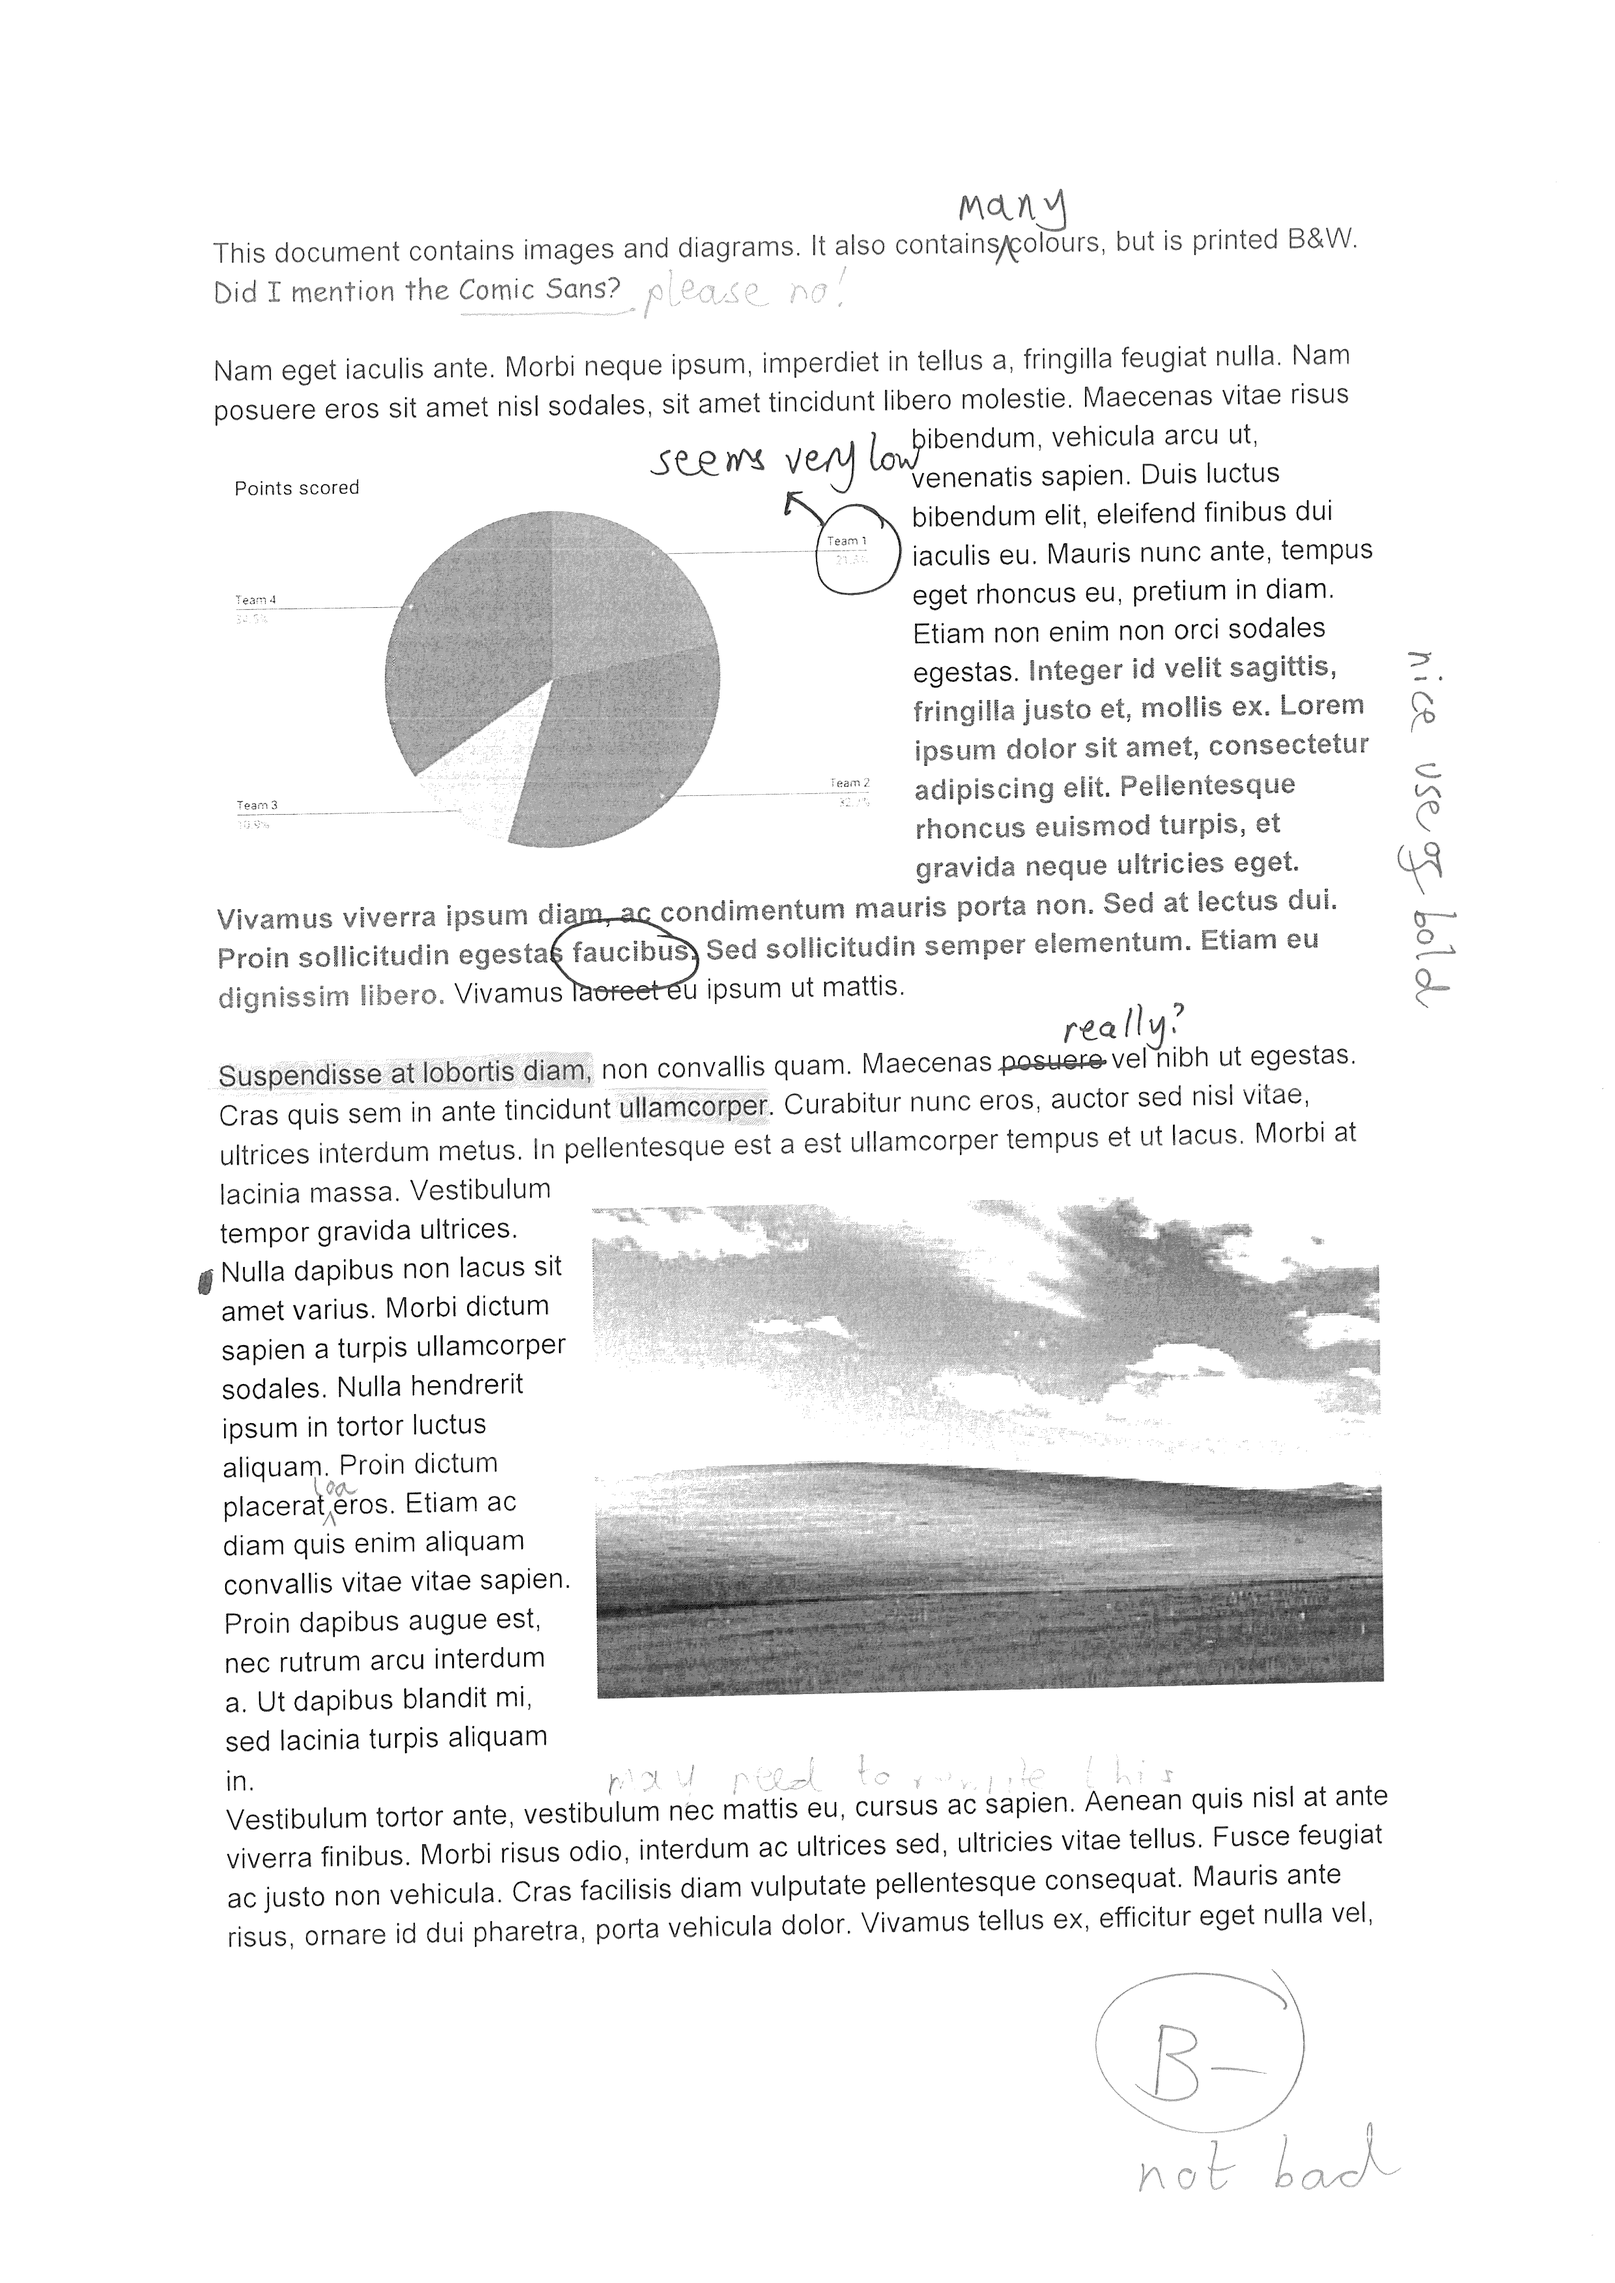
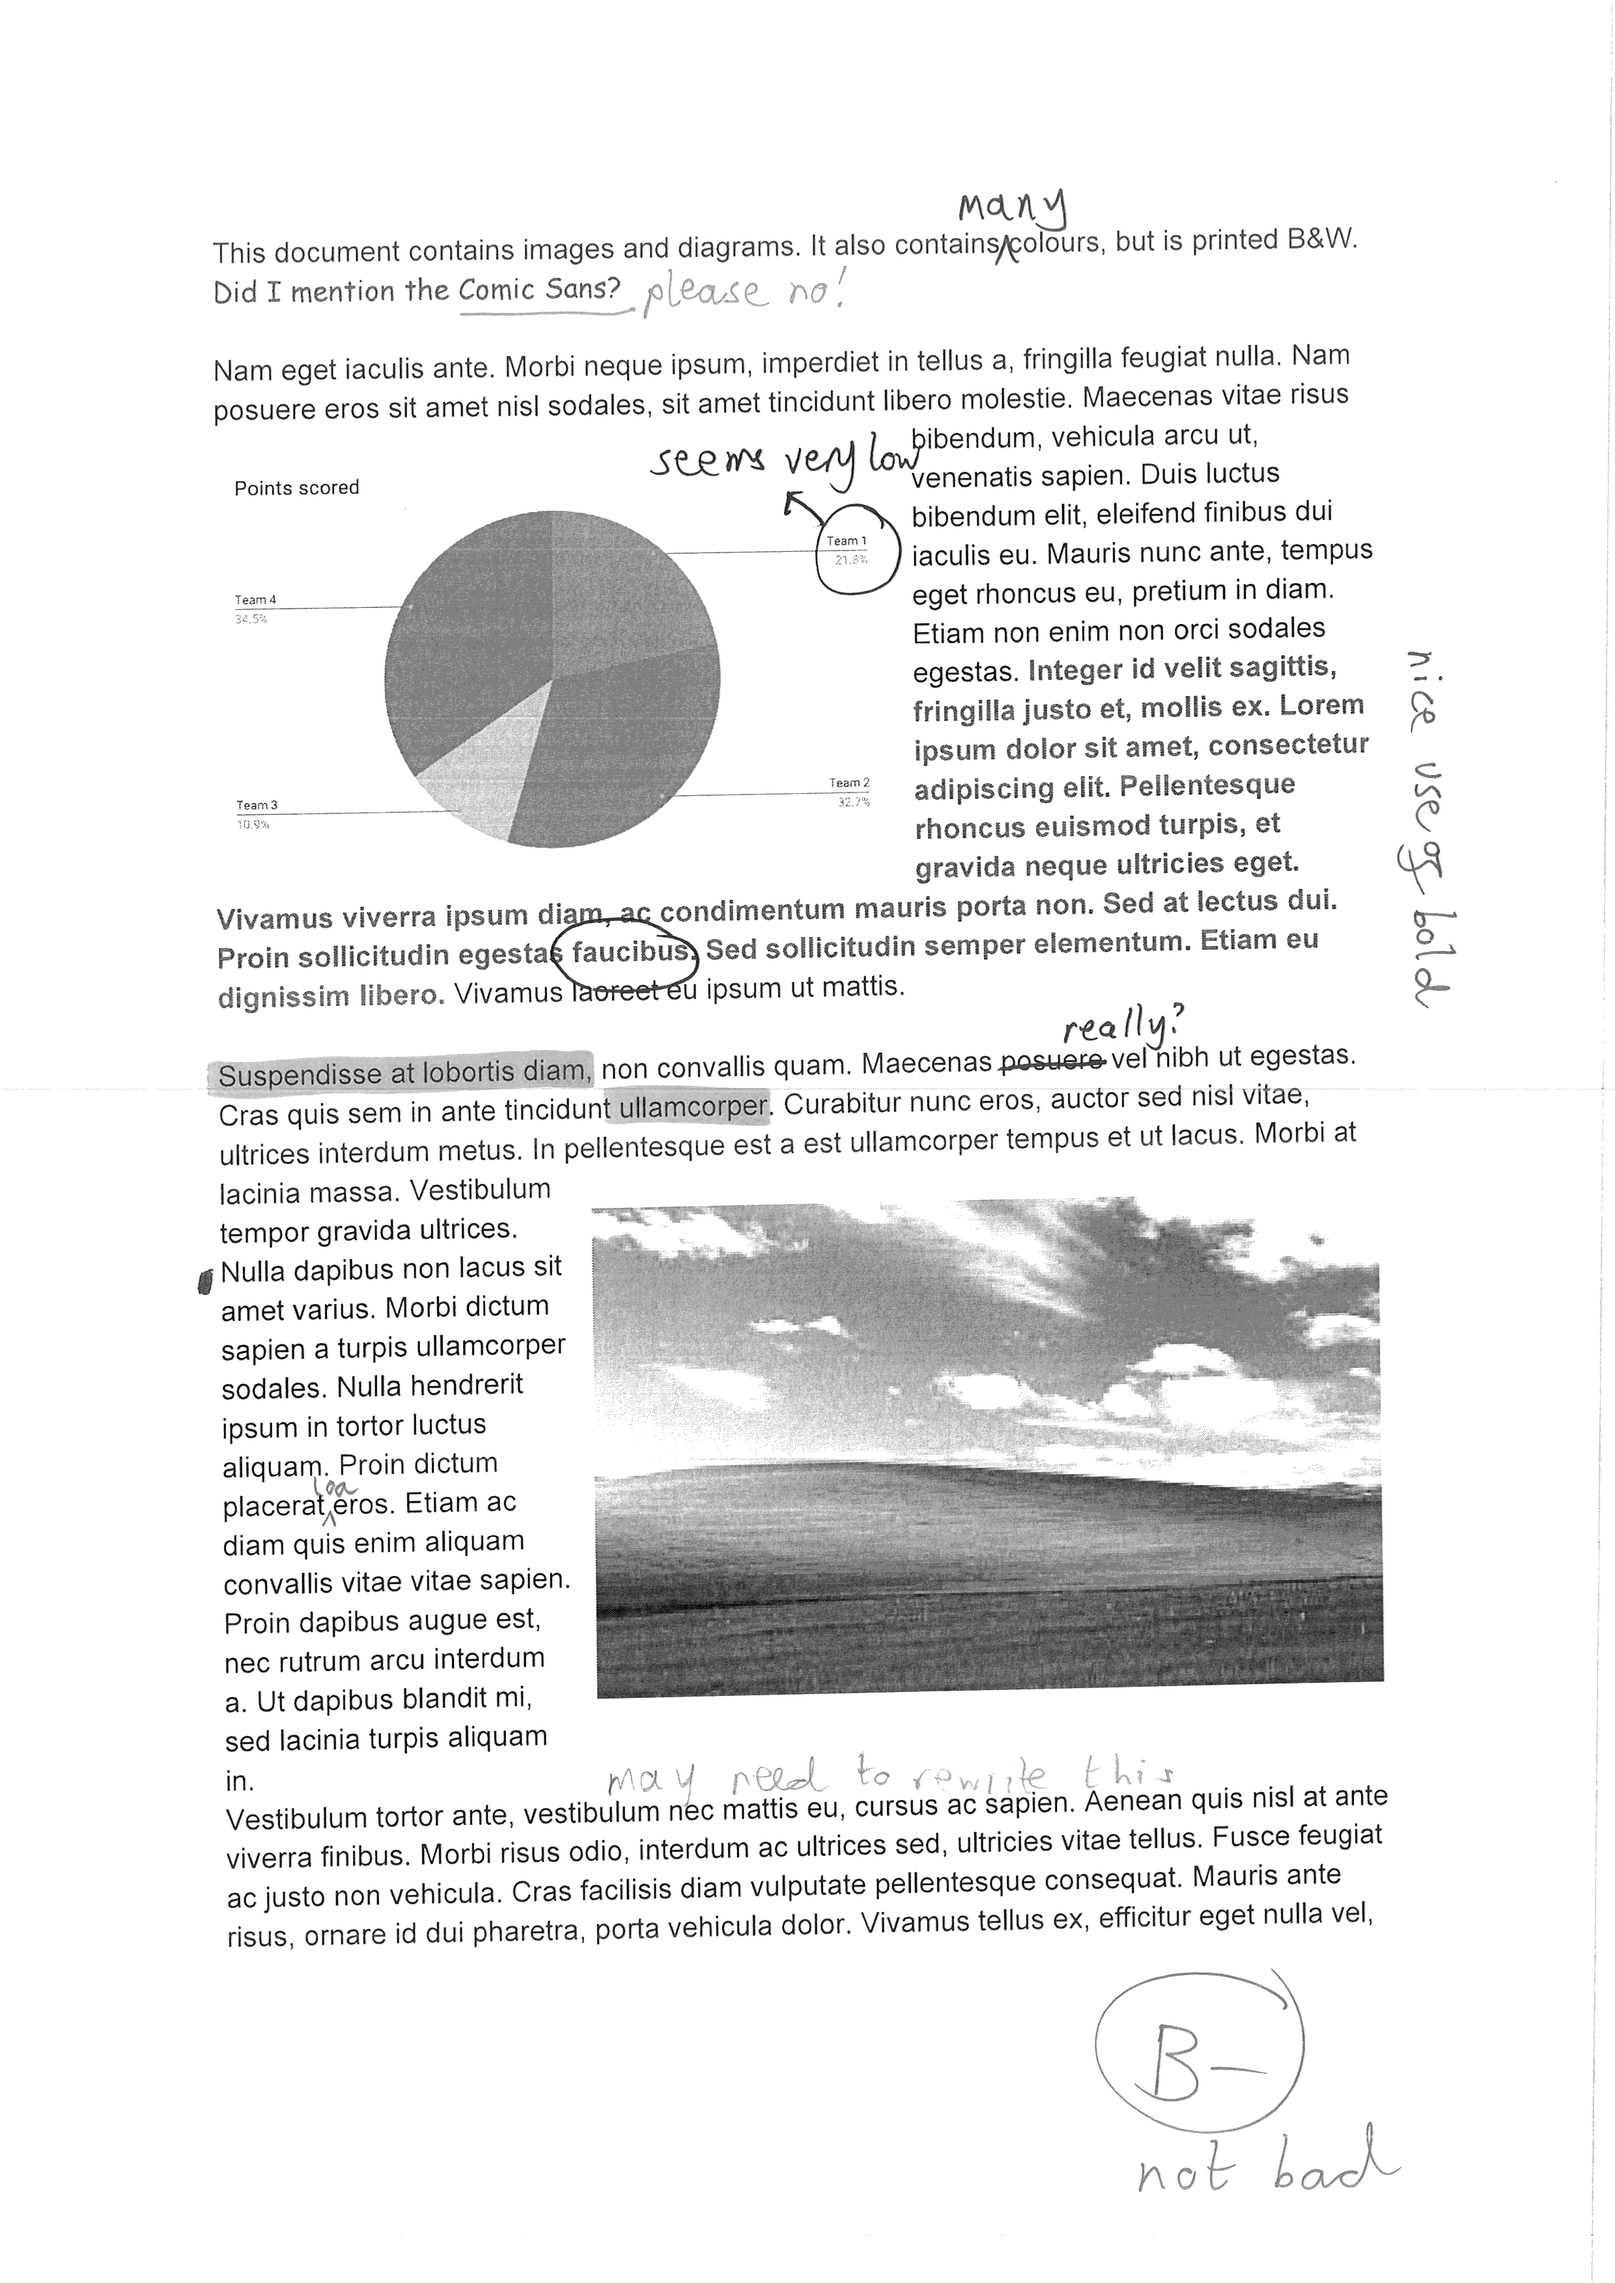
new out4.png

diff --git a/MixedRealityPDF/src/main/java/MixedRealityPDF/Image/Handler.java b/MixedRealityPDF/src/main/java/MixedRealityPDF/Image/Handler.java
@@ -2,7 +2,6 @@ package MixedRealityPDF.Image;
 
 import java.awt.*;
 import java.awt.image.BufferedImage;
-import java.util.Arrays;
 
 public class Handler {
 
@@ -10,7 +9,7 @@ public class Handler {
   private int width;
   private int[] pixels;
 
-  private static int TRESHOLD = 200*3;
+  private static int TRESHOLD = 235*3;
 
   Handler(BufferedImage img){
     height = img.getHeight();
@@ -30,7 +29,7 @@ public class Handler {
     for(int x = 0; x < getWidth(); x++)
       for(int y =0; y < getHeight(); y++) {
 
-        if (lum[getXY(x, y)] < TRESHOLD) {
+        if (lum[getXY(x, y)] <= TRESHOLD) {
           out.setRGB(x, y, Color.BLACK.getRGB());
         } else {
           out.setRGB(x, y, Color.WHITE.getRGB());
